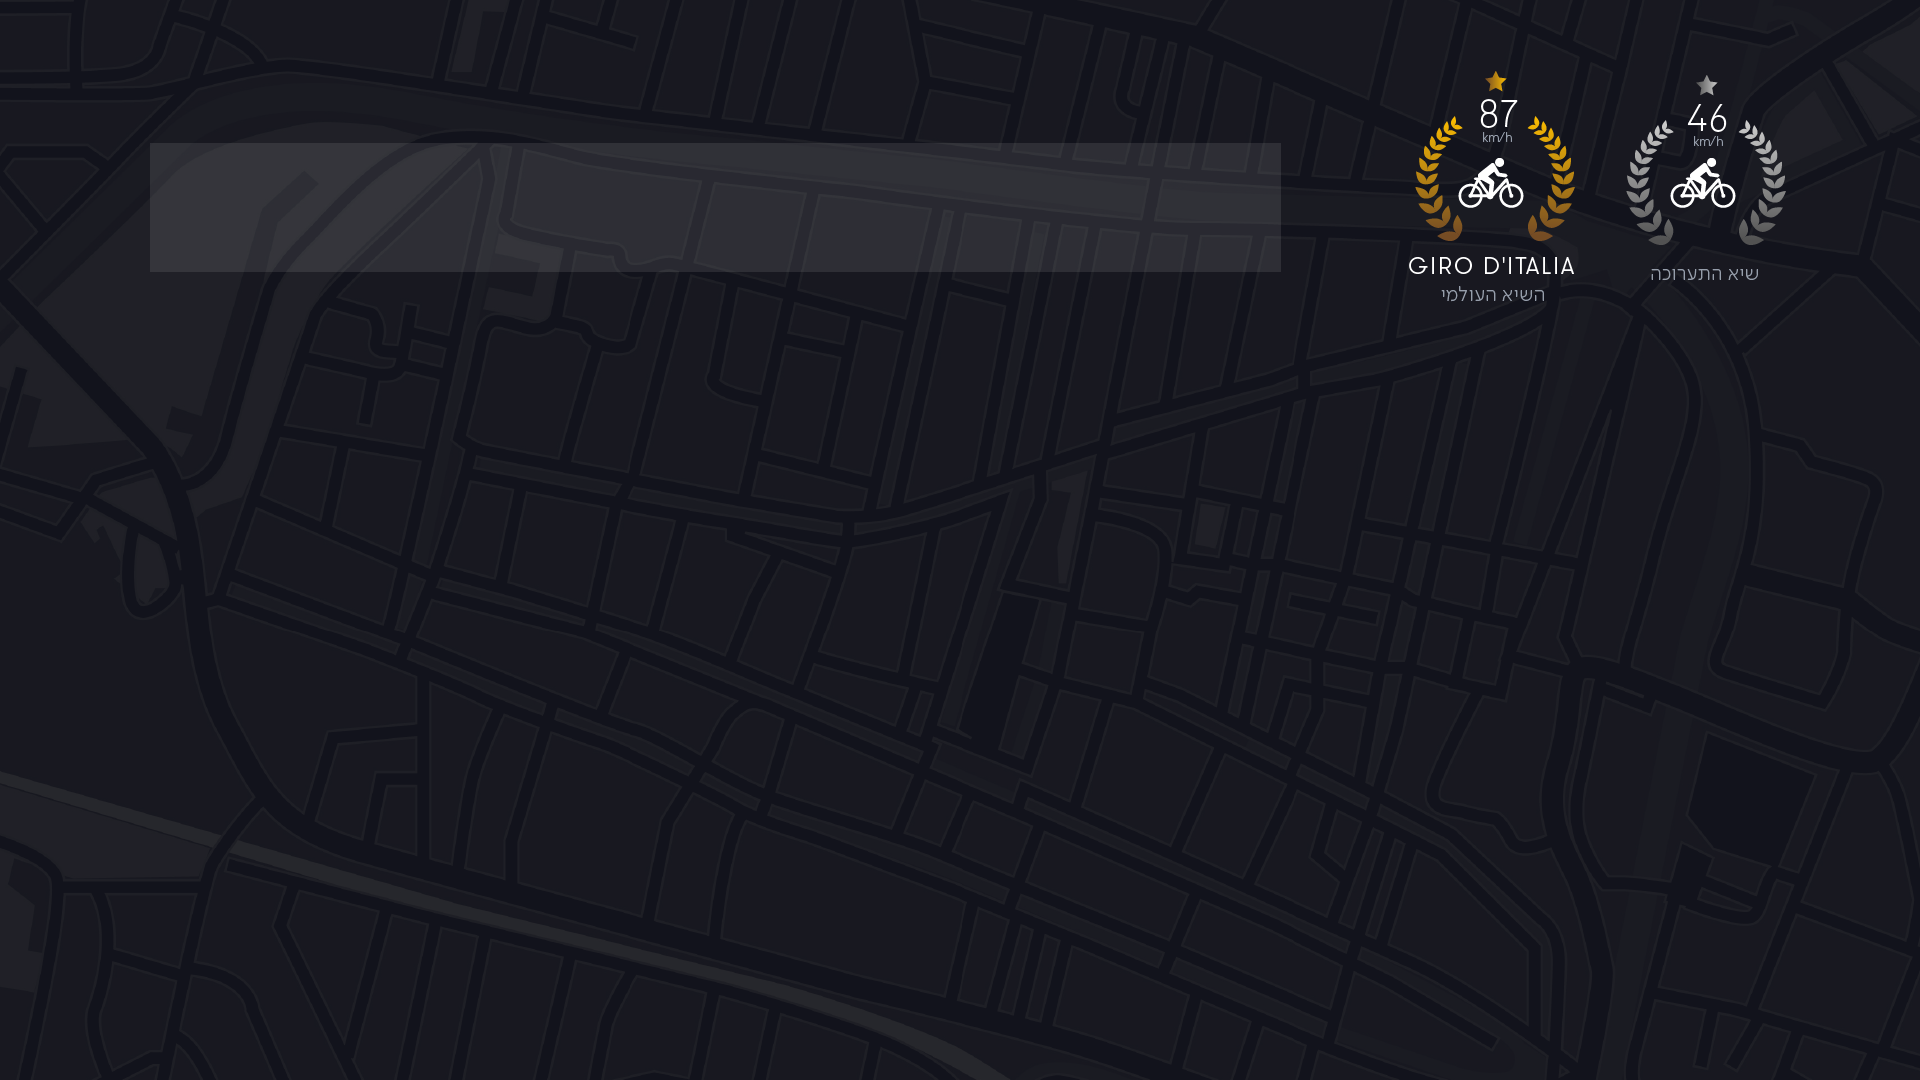
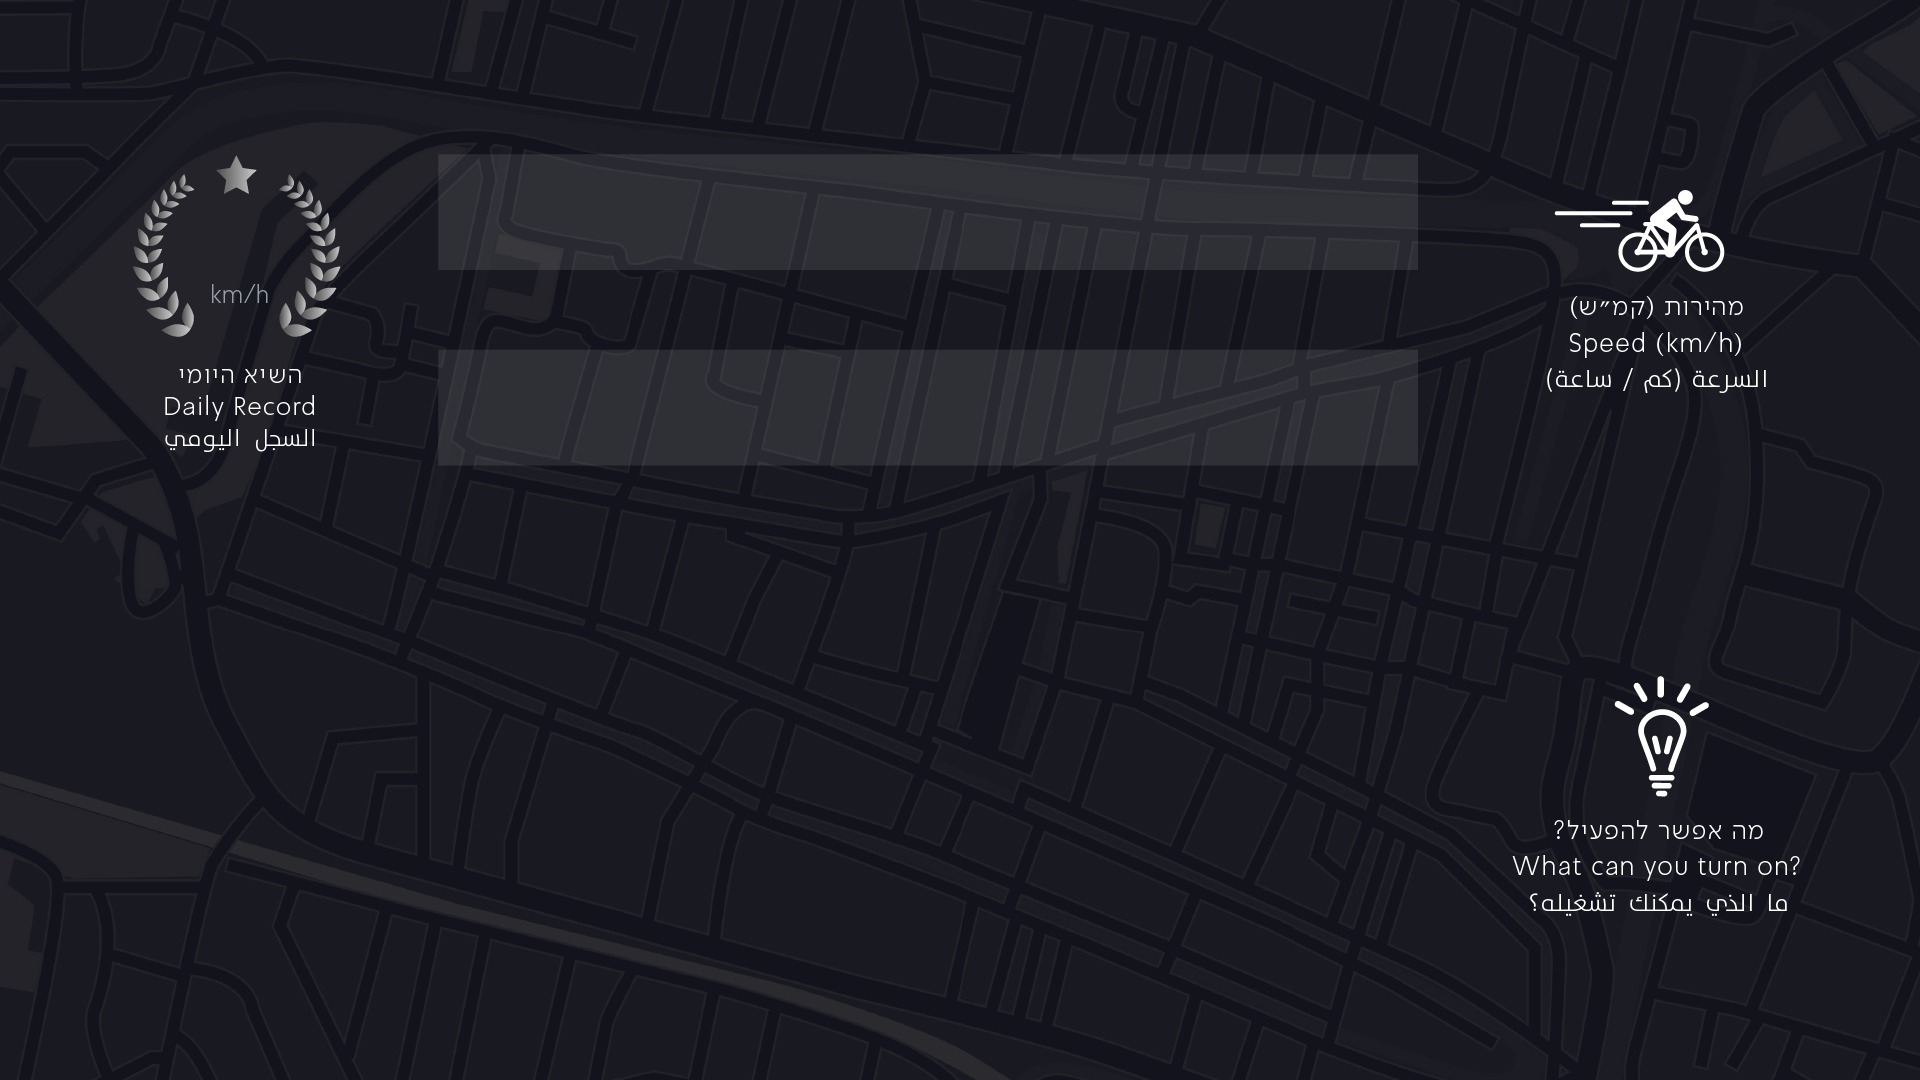
Added daily record functionality, Changed background to the latest one, Fixed bar calculation method

diff --git a/bicycle_race_viewer.py b/bicycle_race_viewer.py
@@ -8,6 +8,7 @@ import cv2
 import os
 import bicycle_race_config as cfg
 from collections import defaultdict
+from time import gmtime, strftime
 
 timing_stats = defaultdict(int)
 
@@ -31,11 +32,15 @@ class BicycleRaceViewer(threading.Thread):
     POWER_BAR_DIGIT_OFFSET = [300, 300]
     SPEED_POWER_CONVERSION_FACTOR = 2  # power = speed * factor
 
+    RECORD_DIGIT_LOCATION = [237,240]
+
+
     VELOCITY_DIGITS_SCALING = 1
 
     VELOCITY_BAR_SPEED_OFFSET = [60, 60]
     PLAYER_1 = 0
     PLAYER_2 = 1
+
 
     @timing_decorator
     def __init__(self):
@@ -48,7 +53,7 @@ class BicycleRaceViewer(threading.Thread):
         self._target_velocity = [0, 0]  # player1,player2
         self._last_velocity_update_time = 0
         self._velocity_update_delay_sec = 0  #0.001  # update velocity resolution
-        self._velocity_update_delta_kms = 0.1  # 'kamash' step for velocity updates
+        self._velocity_update_delta_kms = 2  # 'kamash' step for velocity updates
 
         self._velocity_bars = [0, 0] #self._images_structures['bar_fill']
 
@@ -62,11 +67,15 @@ class BicycleRaceViewer(threading.Thread):
         self._displayed_image = None
 
         # Velocity bar configurations
-        self._velocity_bar_min_pixel = 100
-        self._velocity_bar_max_pixel = 1200
+        self._velocity_bar_min_pixel = cfg.VELOCITY_BAR_LOCATION[0][1]
+        self._velocity_bar_max_pixel = cfg.VELOCITY_BAR_LOCATION[0][1] + cfg.VELOCITY_BAR_SIZE[1]
         self._velocity_bar_min_velocity = 0
         self._velocity_bar_max_velocity = 100
         self._velocity_bar_gradient_end = 0.3  # percentage of visible bar that will have a gradient effect
+
+        self._record_date = strftime("%Y-%m-%d", gmtime())
+        self._logger.info("data change {}".format(strftime("%Y-%m-%d %H:%M", gmtime())))
+        self._daily_record = 0
 
     # reads all images under a directory into _image_structures. Name convention to key is <root after dir_name>/<filename wo extention>
     # for example if we call _read_all_images(bicycle_race_sample_pics) then bicycle_race_sample_pics/digits/0.png will
@@ -118,6 +127,17 @@ class BicycleRaceViewer(threading.Thread):
         self._velocity_bars[1] = v_bar2
 
     @timing_decorator
+    def _check_record(self,player_speed):
+        current_date = strftime("%Y-%m-%d", gmtime())
+        if self._record_date != current_date:
+            self._daily_record = 0
+            self._record_date = current_date
+            self._logger.info("data change {}".format(current_date))
+        if player_speed > self._daily_record:
+            self._daily_record = player_speed
+            self._logger.info("Record broke {}".format(player_speed))
+
+    @timing_decorator
     def _parse_combined_digits(self):
         self._logger.info('in _parse_combined_digits')
         combined_struct = self._images_structures['combined_digits/Numbers']
@@ -131,7 +151,7 @@ class BicycleRaceViewer(threading.Thread):
             self._images_structures[digit_name] = combined_struct[:, y_seperator_pixel[i]: y_seperator_pixel[i + 1], :]
 
     @timing_decorator
-    def update_velocity(self, player, new_velocity):
+    def _update_velocity(self, player, new_velocity):
         """
         should be used by controller
         :param player: player1/ player2
@@ -140,6 +160,7 @@ class BicycleRaceViewer(threading.Thread):
         """
         self._logger.info('volocity updated by controller({}: {})'.format(player, new_velocity))
         self._target_velocity[player] = new_velocity
+        self._check_record(new_velocity)
 
     @timing_decorator
     def _update_current_velocity(self):
@@ -299,13 +320,15 @@ class BicycleRaceViewer(threading.Thread):
 
     @timing_decorator
     def _update_velocity_bar(self):
+        # update records
+        self._update_number_to_screen(self._daily_record,self.RECORD_DIGIT_LOCATION,0.5)
         # bar width + gradient
         self._update_velocity_bar_width()
         # bicycle logo placement
         self._update_bicycle_logos_placements()
         # km"sh location update
-        self._update_speed_placements()
         # digits update + location
+        self._update_speed_placements()
 
     @timing_decorator
     def _update_velocity_bar_width(self):
@@ -318,12 +341,16 @@ class BicycleRaceViewer(threading.Thread):
             self._logger.debug('bar shape: ({}, {}, {})'.format(bar_x, bar_y, bar_z))
 
             bar_stop_pixel = self._map_velocity_to_bar_location(velocity=self._velocity[player])
+            self._logger.debug('bar stop pixel: {}'.format(bar_stop_pixel))
             # mask out bar from bar_stop_pixel until the end
             bar_alpha = np.ones((bar_x, bar_y), dtype=np.uint8) * 255
-            bar_alpha[:, bar_stop_pixel:] = 0
+            bar_alpha[:, (bar_stop_pixel - cfg.VELOCITY_BAR_LOCATION[player][1]):] = 0
+
+            self._logger.debug('bar size : {}'.format(
+                (bar_stop_pixel - cfg.VELOCITY_BAR_LOCATION[player][1])))
 
             self._logger.debug('bar_alpha shape: {}'.format(bar_alpha.shape))
-            gradient_end = int(self._velocity_bar_gradient_end * bar_stop_pixel)
+            gradient_end = int(self._velocity_bar_gradient_end * (bar_stop_pixel - cfg.VELOCITY_BAR_LOCATION[player][1]))
 
             for i in range(gradient_end):
                 bar_alpha[:, i] = int(i*255/gradient_end)
@@ -341,9 +368,14 @@ class BicycleRaceViewer(threading.Thread):
         :return: ypixel location of and of bar
         """
         # (x - in_min) * (out_max - out_min) / (in_max - in_min) + out_min --> map one spectrum to another
-        pixel = velocity * (self._velocity_bar_max_pixel - self._velocity_bar_min_pixel) \
+        if velocity < self._velocity_bar_min_velocity:
+            return self._velocity_bar_min_pixel
+        if velocity > self._velocity_bar_max_velocity:
+            return self._velocity_bar_max_pixel
+        pixel = (velocity - self._velocity_bar_min_velocity) * (self._velocity_bar_max_pixel - self._velocity_bar_min_pixel) \
                 / (self._velocity_bar_max_velocity - self._velocity_bar_min_velocity) \
-                + self._velocity_bar_max_velocity
+                + self._velocity_bar_min_pixel
+        self._logger.debug("mapping location to {}".format(pixel))
         return int(pixel)
 
     @timing_decorator
@@ -357,6 +389,7 @@ class BicycleRaceViewer(threading.Thread):
 
             y_bar_loc = self._map_velocity_to_bar_location(velocity=self._velocity[player])
             y_icon_loc = y_bar_loc + cfg.BICYCLE_ICON_HORIZONTAL_OFFSET
+            self._logger.debug("y_icon_loc {}".format(y_icon_loc))
             self._displayed_image = self._overlay(base_image=self._displayed_image,
                                                   overlay_image=self._images_structures['Rider Icon'],
                                                   location=(x_icon_loc, y_icon_loc))
@@ -414,20 +447,28 @@ class BicycleRaceViewer(threading.Thread):
 
 if __name__ == '__main__':
     from bicycle_player import init_logging
-    init_logging(logger_name='BicycleRaceViewer', logger_level=logging.INFO)
+    init_logging(logger_name='BicycleRaceViewer', logger_level=logging.DEBUG)
     b = BicycleRaceViewer()
     b.setDaemon(True)
     t0 = time.clock()
     b.start()
     sleep(2)
-    b.update_velocity(player=BicycleRaceViewer.PLAYER_1, new_velocity=1)
-    sleep(5)
-    b.update_velocity(player=BicycleRaceViewer.PLAYER_1, new_velocity=30)
-    sleep(5)
-    b.update_velocity(player=BicycleRaceViewer.PLAYER_2, new_velocity=20)
-    sleep(5)
-    b.update_velocity(player=BicycleRaceViewer.PLAYER_1, new_velocity=61)
-    sleep(5)
+    b._update_velocity(player=BicycleRaceViewer.PLAYER_1, new_velocity=1)
+    sleep(2)
+    b._update_velocity(player=BicycleRaceViewer.PLAYER_1, new_velocity=30)
+    sleep(2)
+    b._update_velocity(player=BicycleRaceViewer.PLAYER_2, new_velocity=1)
+    sleep(2)
+    b._update_velocity(player=BicycleRaceViewer.PLAYER_2, new_velocity=30)
+    sleep(2)
+    b._update_velocity(player=BicycleRaceViewer.PLAYER_1, new_velocity=1)
+    sleep(2)
+    b._update_velocity(player=BicycleRaceViewer.PLAYER_2, new_velocity=1)
+    sleep(2)
+    b._update_velocity(player=BicycleRaceViewer.PLAYER_2, new_velocity=30)
+    sleep(2)
+    b._update_velocity(player=BicycleRaceViewer.PLAYER_1, new_velocity=30)
+    sleep(2)
     b.stop_viewer()
     sleep(1)
 

diff --git a/bicycle_race_controller.py b/bicycle_race_controller.py
@@ -18,7 +18,7 @@ class BicycleRaceController(threading.Thread):
         self._viewer.start()
 
         #TODO:  this should be fixed in BicycleRaceViewer, if no initial speed is given nothing is shown
-        self._viewer.update_velocity(player=0, new_velocity=1)
+        self._viewer._update_velocity(player=0, new_velocity=1)
         self._serial = serial.Serial(port=self.PORT,
                                      baudrate=self.BAUDRATE,
                                      bytesize=serial.EIGHTBITS,
@@ -65,7 +65,7 @@ class BicycleRaceController(threading.Thread):
             player = op_id
             encoder_delta = int(''.join(data))
             self._logger.debug('player: {}, encoder: {}'.format(player, encoder_delta))
-            self._viewer.update_velocity(player=player, new_velocity=encoder_delta/100)
+            self._viewer._update_velocity(player=player, new_velocity=encoder_delta / 100)
 
 
     def update_race_viewer(self, new_configuration):

diff --git a/bicycle_race_config.py b/bicycle_race_config.py
@@ -2,12 +2,12 @@
 GRAPHICS_DICTIONARY = 'bicycle_race_sample_pics'
 
 # Velocity Bar
-VELOCITY_BAR_LOCATION = ((143, 50), (350, 50))  # upper left pixel ((player_1_x, player_1_y), (player_2_x, player_2_y))
-VELOCITY_BAR_SIZE = (130, 1790, 3)  # in pixels (x_dim, y_dim, z_dim)
+VELOCITY_BAR_LOCATION = ((154, 438), (350, 438))  # upper left pixel ((player_1_x, player_1_y), (player_2_x, player_2_y))
+VELOCITY_BAR_SIZE = (115, 980, 3)  # in pixels (x_dim, y_dim, z_dim)
 VELOCITY_BAR_1_COLOR = (50, 255, 0)  # RGB
 VELOCITY_BAR_2_COLOR = (200, 200, 0)  # RGB
-BICYCLE_ICON_VERTICAL_OFFSET = 10   # offset of bicycle icon from bar end
-BICYCLE_ICON_HORIZONTAL_OFFSET = -90    # offset of bicycle icon from bar end
+BICYCLE_ICON_VERTICAL_OFFSET = 5   # offset of bicycle icon from bar end
+BICYCLE_ICON_HORIZONTAL_OFFSET = -140    # offset of bicycle icon from bar end
 
 
 # Power Bar
